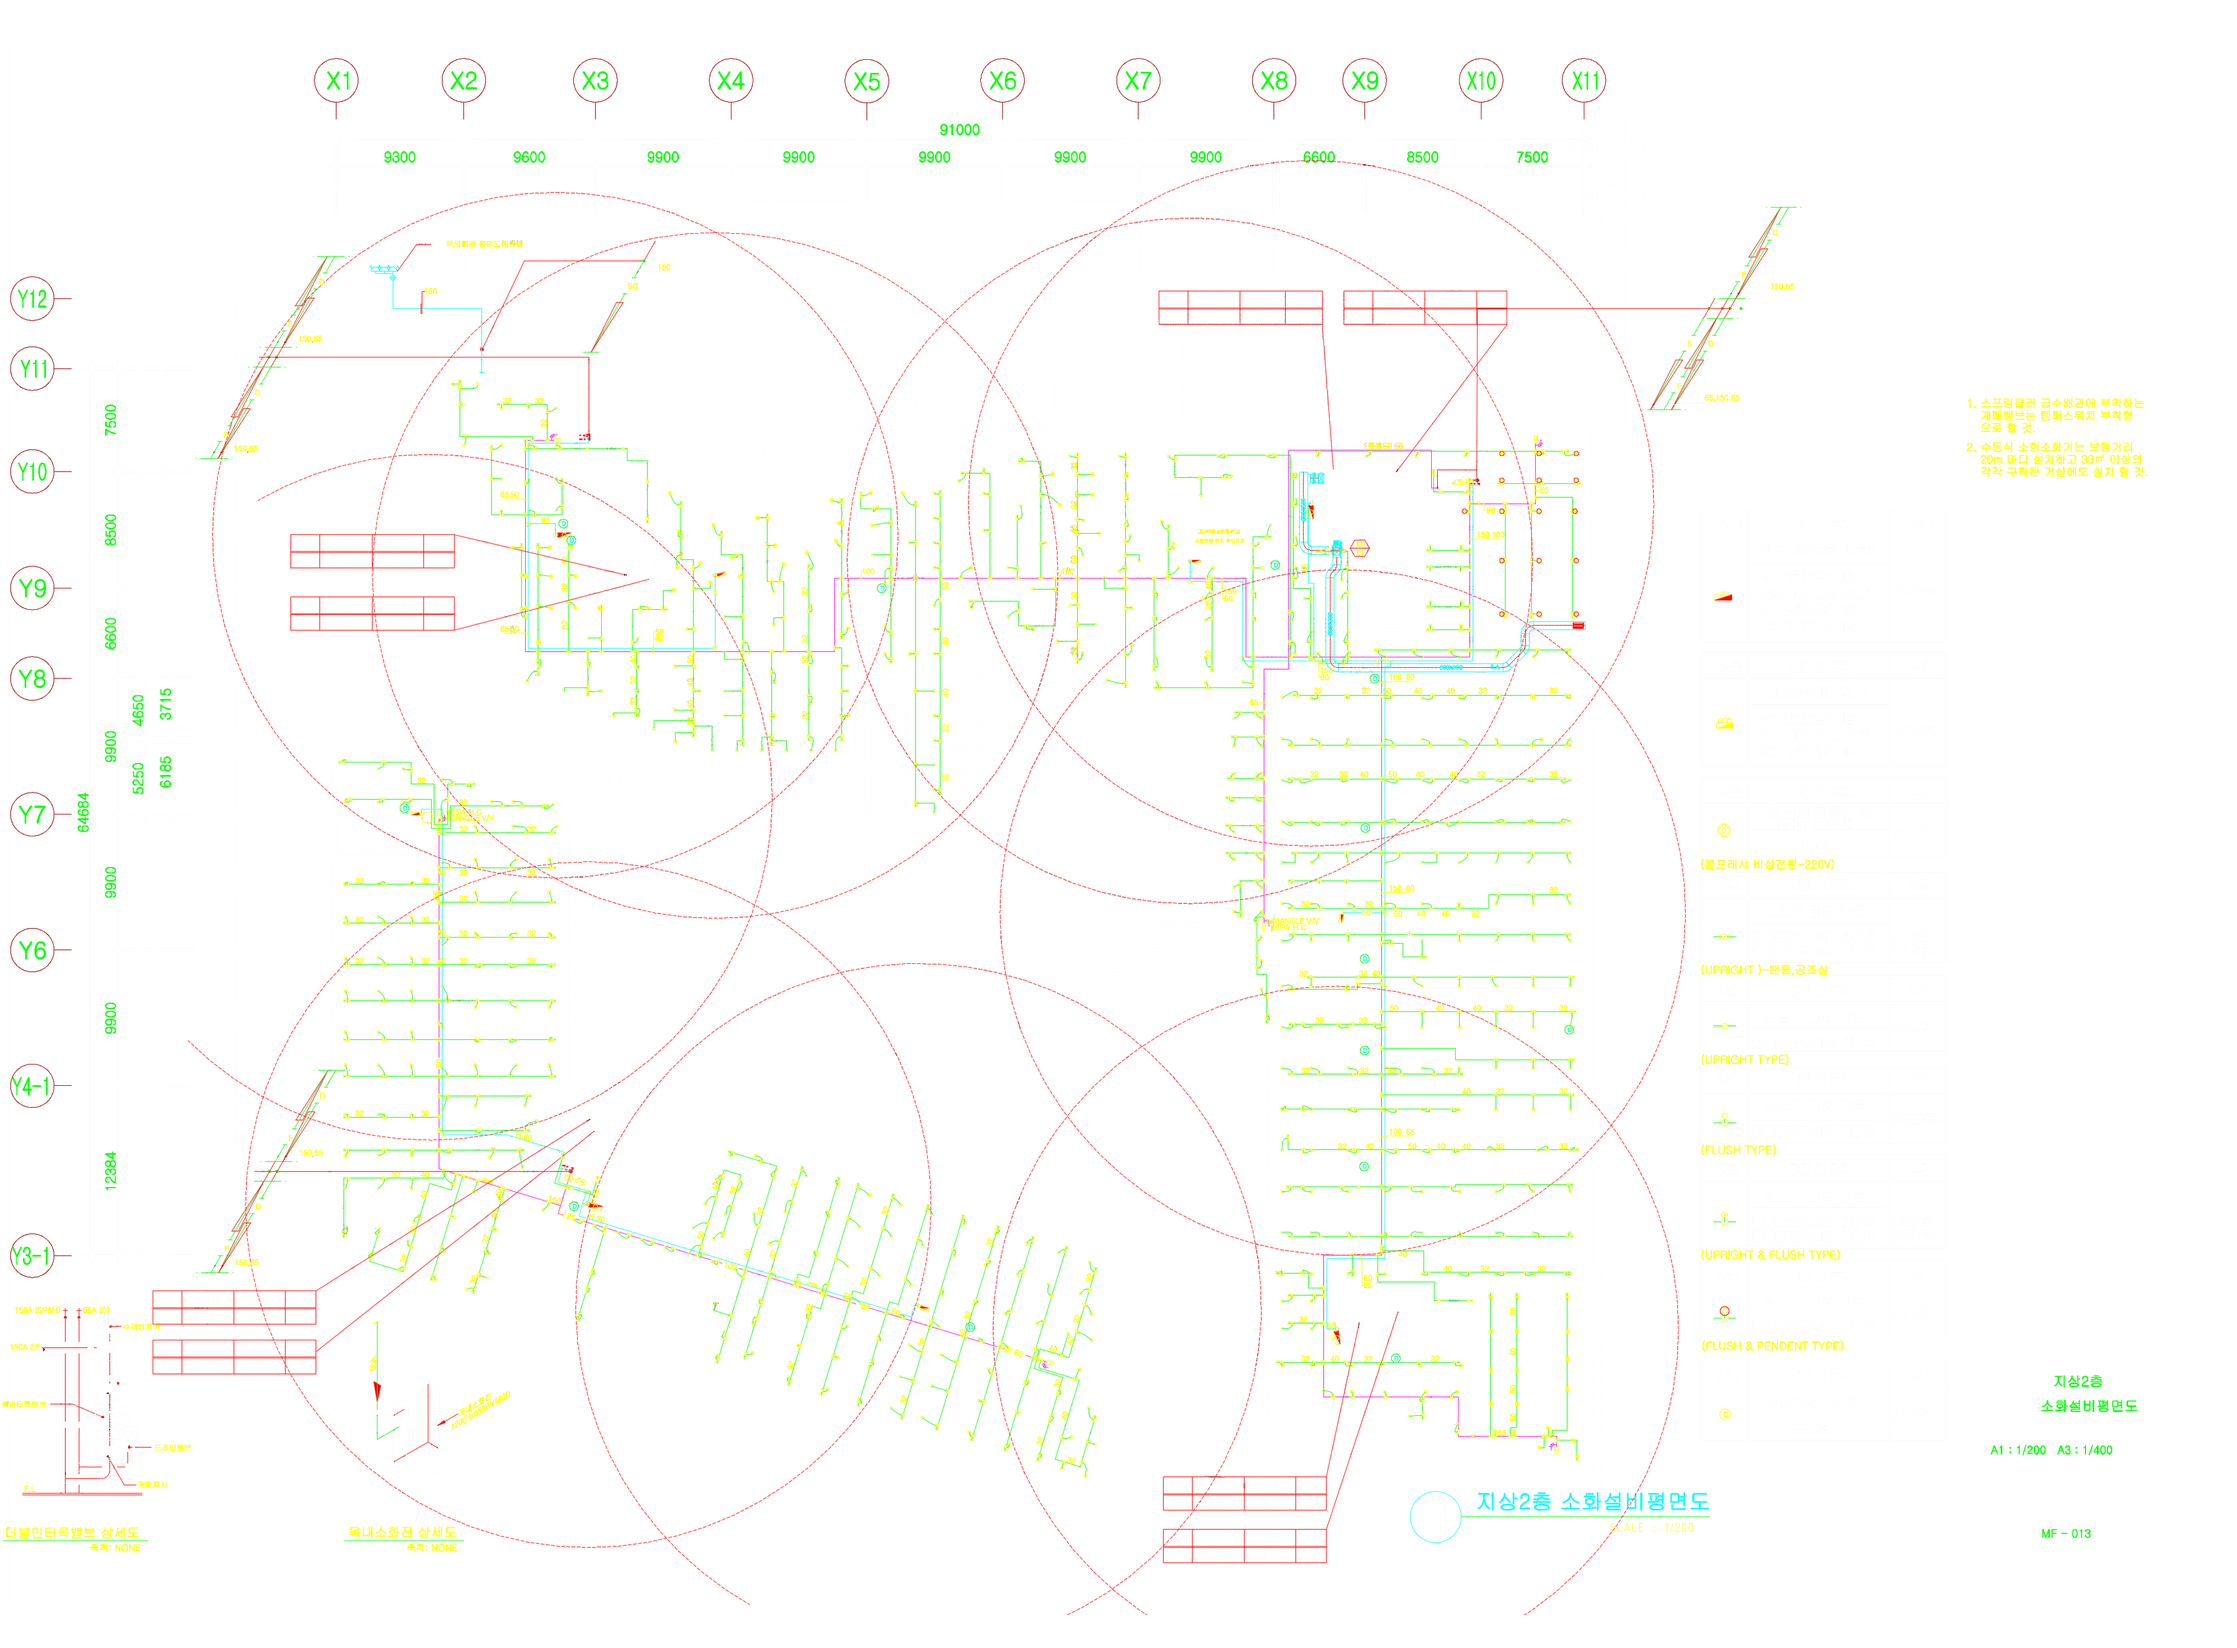
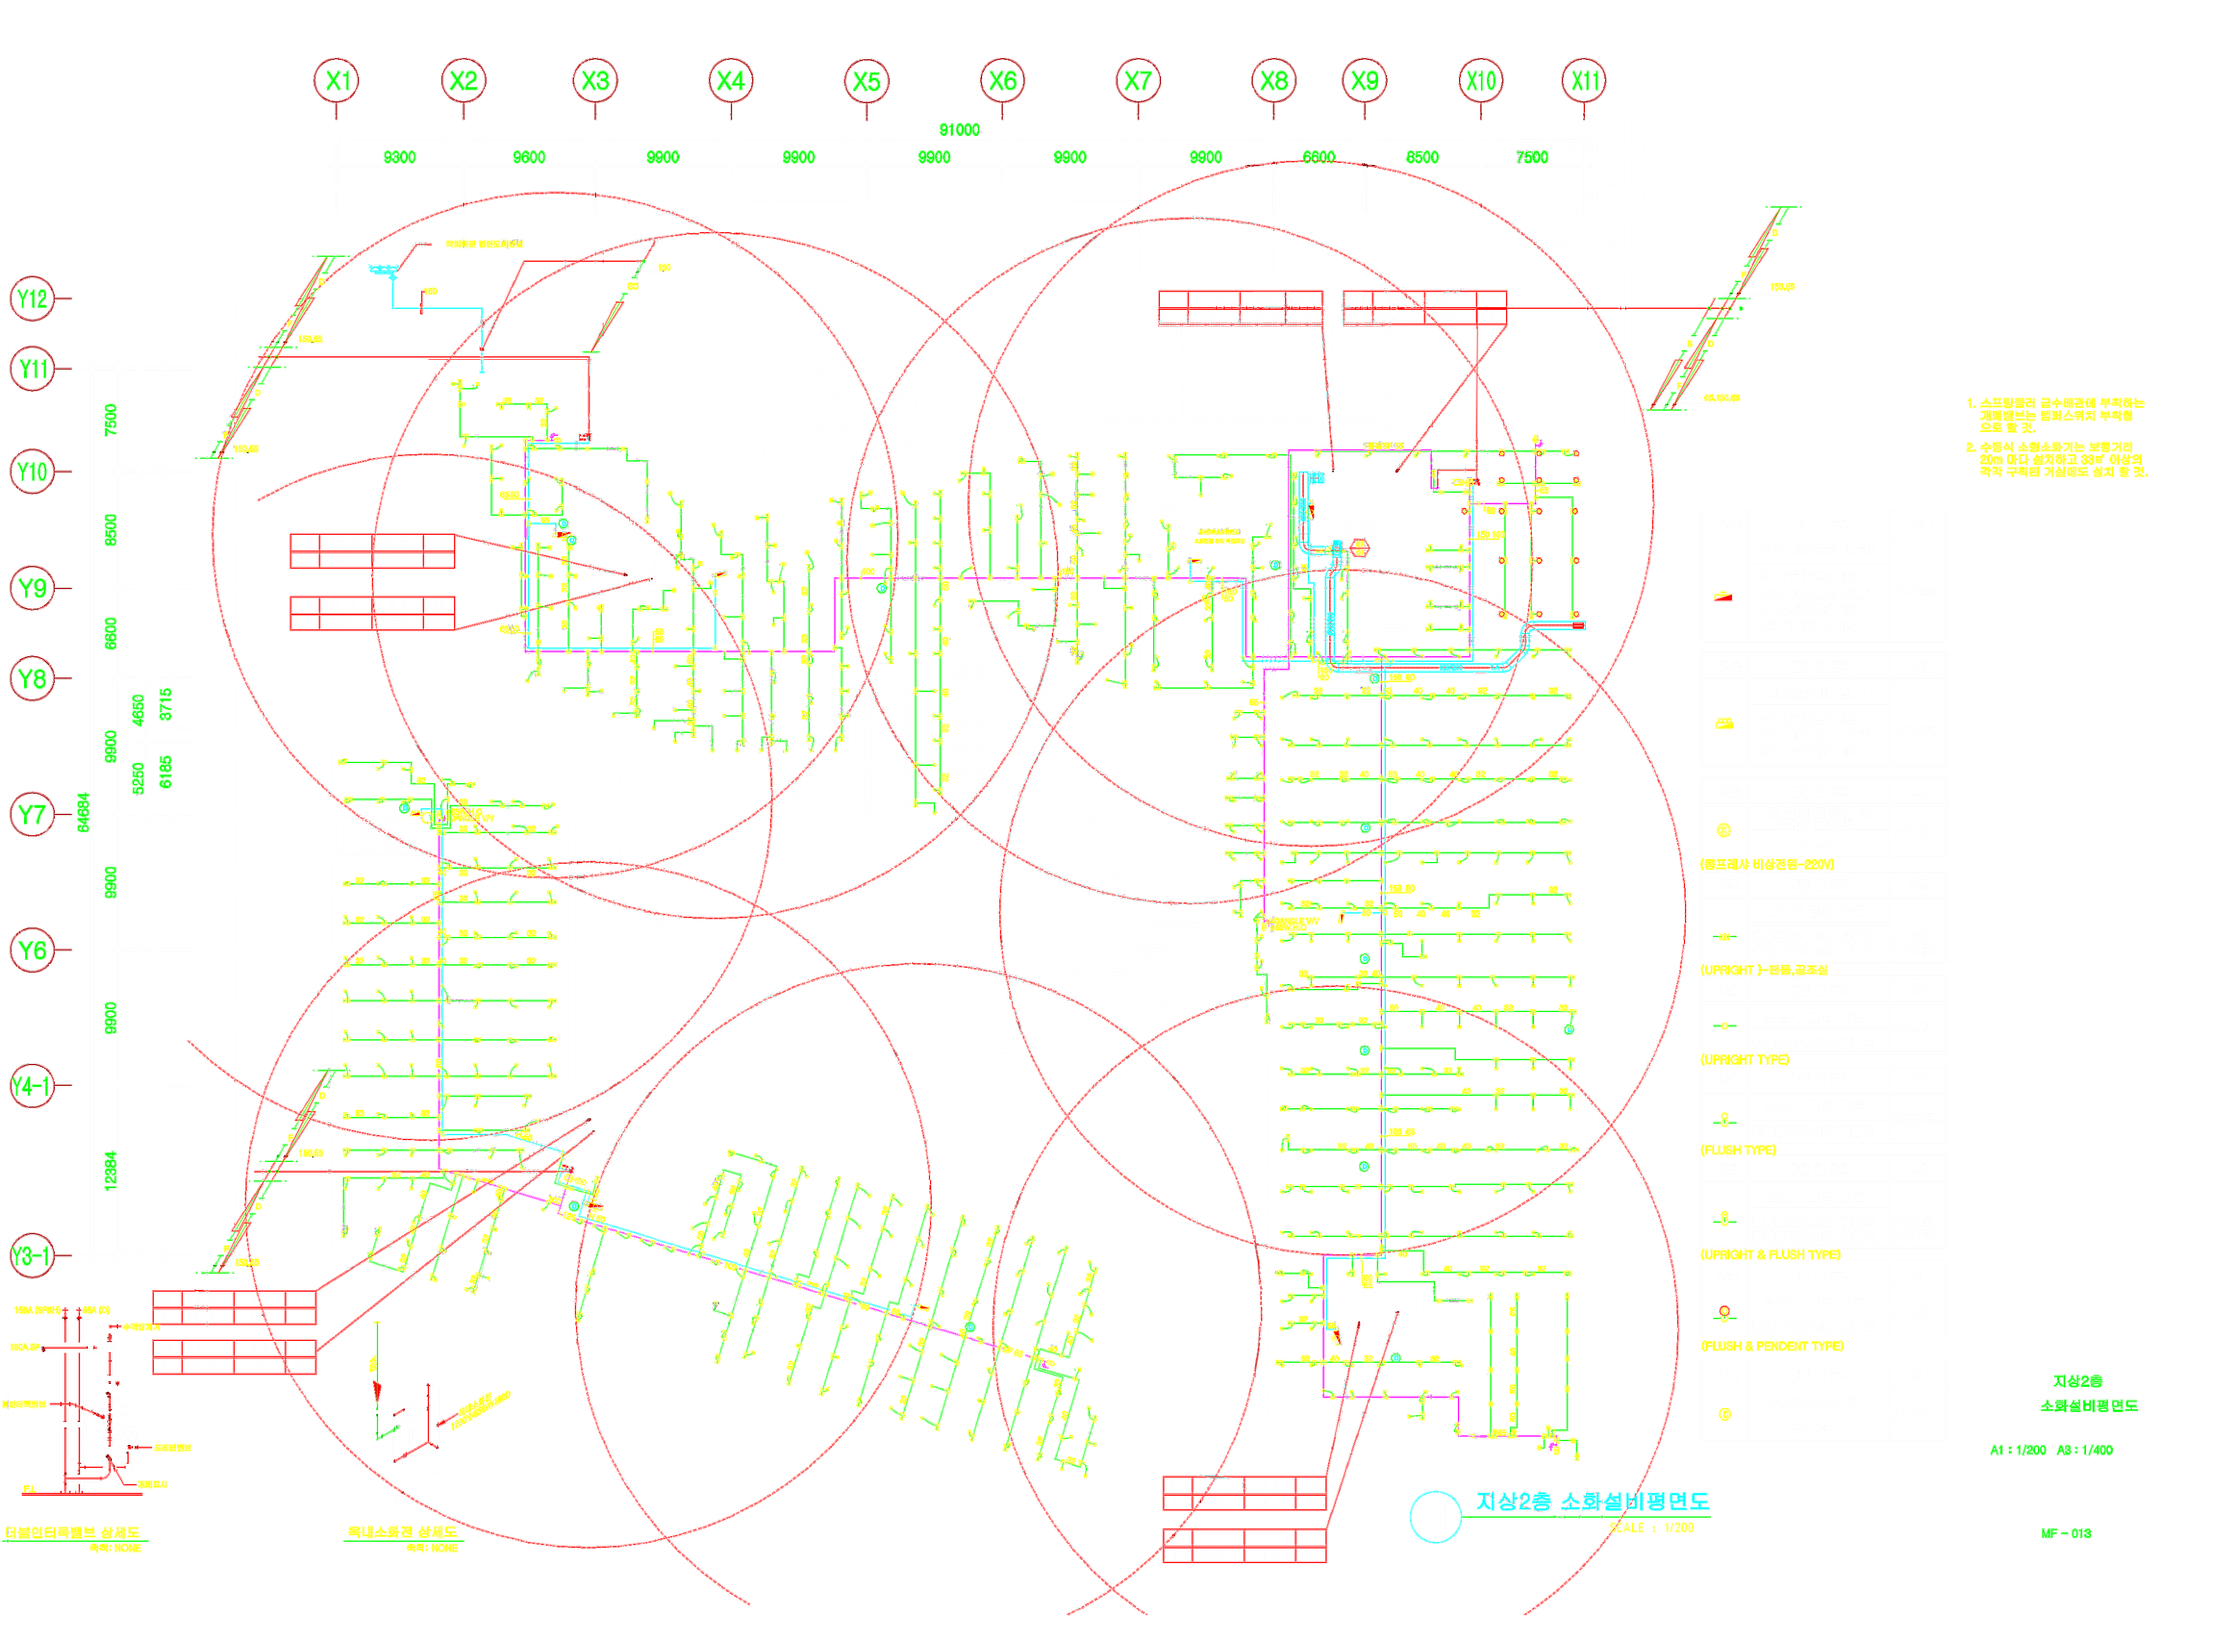
fix(floorplan): 2F 컬러 라인 +1px dilation 재추가 (v17 그레이 처리 + 컬러 보강)
- v17 그레이 RGB 흰색화 + alpha 부스트는 유지
- 컬러 영역만 +1px dilation (사용자 피드백: 컬러만 좀 진하게)
- 컬러 라인 4.86% (1F: 3.67%, 살짝 진함), 그레이 7.15% (1F: 8.54%)
- ?v=17 → ?v=18

diff --git a/cha-bio-safety/src/pages/FloorPlanPage.tsx b/cha-bio-safety/src/pages/FloorPlanPage.tsx
@@ -277,7 +277,7 @@ function MarkerIcon({
 
 // ── 도면 파일 경로 ──────────────────────────────────────
 function getFloorPlanUrl(planType: PlanType, floor: string) {
-  return `/floorplans/${planType}/${floor}.png?v=17`
+  return `/floorplans/${planType}/${floor}.png?v=18`
 }
 
 // ══════════════════════════════════════════════════════
